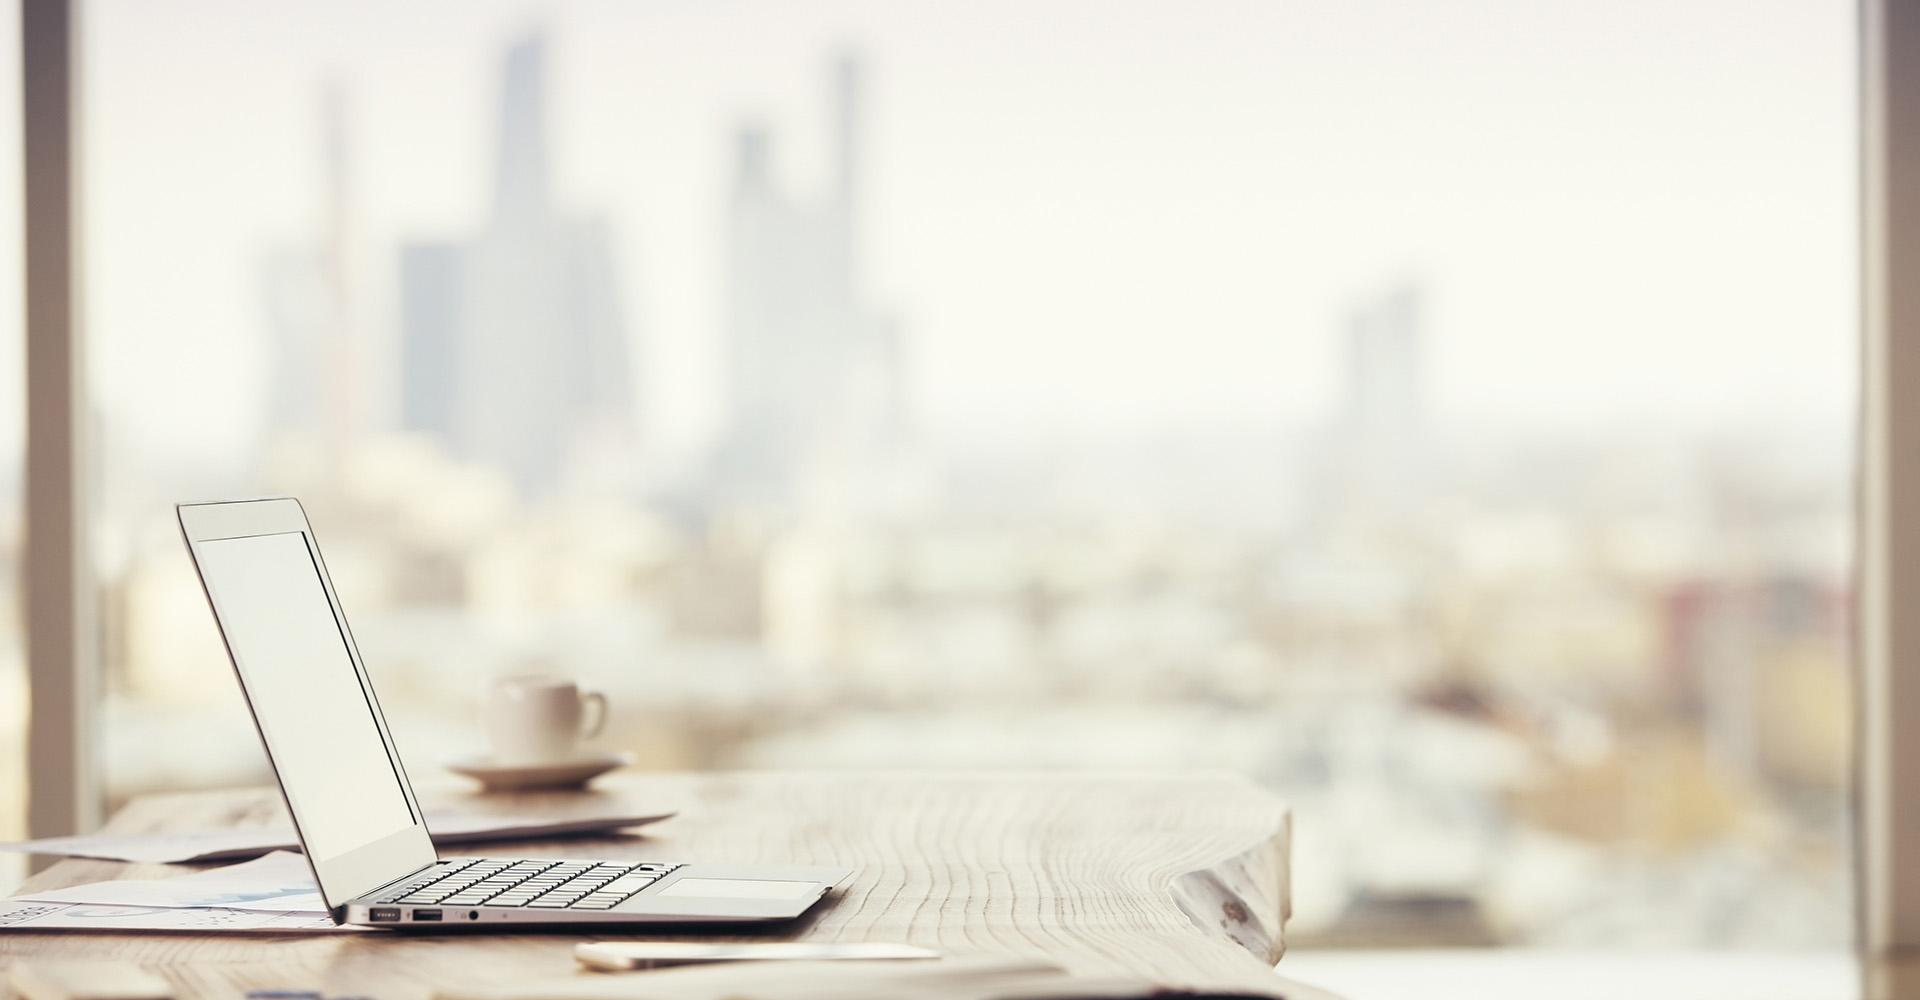
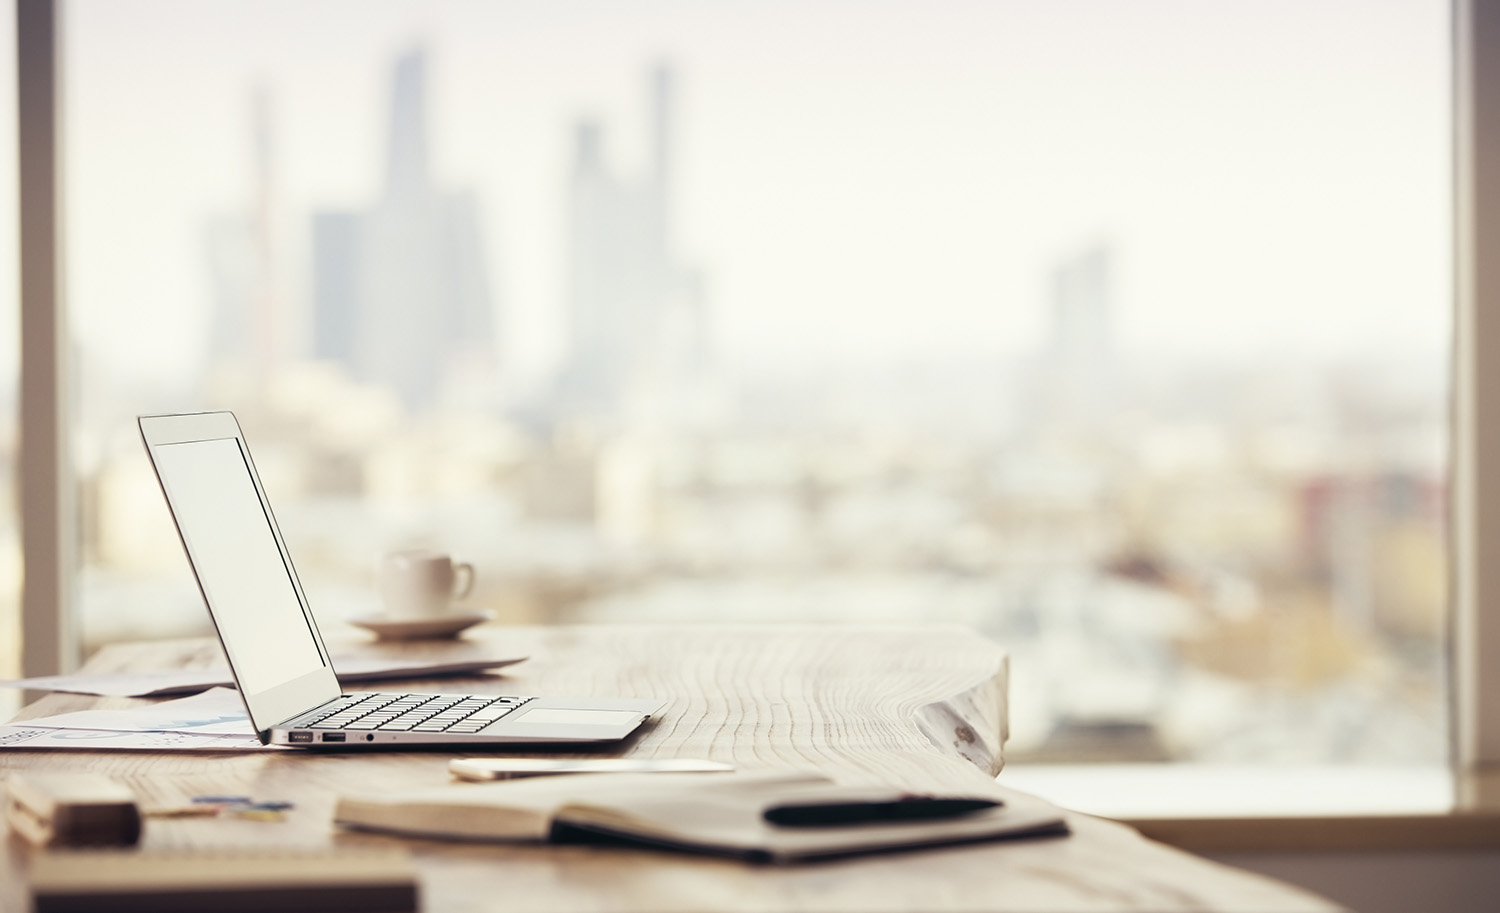
Added Responsive Image

diff --git a/src/app/app.component.scss b/src/app/app.component.scss
@@ -1,139 +1,16 @@
-@media screen and (min-width: 350px) and (max-width: 600px) {
-    
-    #banner-image {
-        width: 100%;
-        height: 300px;
-        background-image: url("/assets/mobile-splash-background.jpg");
-        background-repeat: no-repeat;
-    }
-    h2 {
-        margin: 0 0 0 40px;
-        padding-top: 20px;
-        font-family: roboto;
-        font-size: 18pt;
-        color: #11170E;
-    }
-    h3 {
-        margin: 0 0 0 40px;
-        padding-top: 10px;
-        font-family: Adelle PE;
-        color: #860043;
-        font-stretch: extra-expanded;
-    }
-    h4 {
-        margin: 10px 20px 0 0;
-        padding-top: 10px;
-        font-family: roboto;
-        color: #145814;
-        float:right;
-    }
-    section {
-        position: relative;
-        margin: 20px 0 0 60px;
-    }
-    .mat-nav-list .mat-list-item {
-        height: 70px;
-    }
+// 
+.container {
+    position: relative;
 }
 
-@media screen and (min-width: 601px) and (max-width: 768px) {
-    #banner-image {
-        width: 100%;
-        height: 1024px;
-        background-image: url("/assets/designer-background-768-1024.jpg");
-        background-repeat: no-repeat;
-        padding: 0;
-        margin: 0;
-    }
-    h2 {
-        margin: 0;
-        padding-top: 20px;
-        font-family: roboto;
-        font-size: 18pt;
-        color: #11170E;
-    }
-
+/* Bottom right text */
+.text-block {
+    position: absolute;
+    top: 20px;
+    right: 20px;
+    background-color: black;
+    color: white;
+    padding-left: 20px;
+    padding-right: 20px;
 }
-
-@media screen and (min-width: 769px) and (max-width: 1023px) {
-    #banner-image {
-        width: 100%;
-        height: 768px;
-        background-image: url("/assets/designer-background-1024-768.jpg");
-        background-repeat: no-repeat;
-        padding: 0;
-        margin: 0;
-    }
-    h2 {
-        margin: 0;
-        padding-top: 20px;
-        font-family: roboto;
-        font-size: 18pt;
-        color: #11170E;
-    }
-
-}
-
-@media screen and (min-width: 1024px) and (max-width: 1365px) {
-    #banner-image {
-        width: 100%;
-        height: 1366px;
-        background-image: url("/assets/designer-background-1024-1366.jpg");
-        background-repeat: no-repeat;
-        padding: 0;
-        margin: 0;
-    }
-    h2 {
-        margin: 0;
-        padding-top: 20px;
-        font-family: roboto;
-        font-size: 18pt;
-        color: #11170E;
-    }
-
-}
-/* iPad pro */
-@media screen and (min-width: 1366px) and (max-width: 1366px) {
-    #banner-image {
-        width: 100%;
-        height: 1024px;
-        background-image: url("/assets/designer-background-1366-1024.jpg");
-        background-repeat: no-repeat;
-        padding: 0;
-        margin: 0;
-    }
-    h2 {
-        margin: 0;
-        padding-top: 20px;
-        font-family: roboto;
-        font-size: 18pt;
-        color: #11170E;
-    }
-
-}
-
-@media screen and (min-width: 1200px) and (max-width: 1921px) {
-    #banner-image {
-        width: 100%;
-        height: 1000px;
-        background-image: url("/assets/designer-background-desktop.jpg");
-        
-        padding: 0;
-        margin: 0;
-    }
-    h2 {
-        margin: 0;
-        padding-top: 20px;
-        font-family: roboto;
-        font-size: 18pt;
-        color: #11170E;
-    }
-
-}
-
-
-
-
-
-
 

diff --git a/src/app/app.component.html b/src/app/app.component.html
@@ -1,9 +1,15 @@
 
-<div id="banner-image">
-  <h2>Teri Mathews</h2>
-  <h3>UX-UI Web Developer and Designer</h3>
-  <h4>Denver, CO</h4>
-</div >
+<div class="container">
+    <img src="assets/designer-background-desktop.jpg" alt="background" 
+        style="width:100%;">
+    <div class="text-block"> 
+        <h2>Teri Mathews</h2>
+        <h3>UX-UI Web Developer and Designer</h3>
+        <h4>Denver, CO</h4>
+    </div>
+  </div>
+
+
 
 
 

diff --git a/src/styles.css b/src/styles.css
@@ -1,10 +1,20 @@
 /* You can add global styles to this file, and also import other style files */
 @import '~@angular/material/prebuilt-themes/deeppurple-amber.css';
 
-html, body {
+body, html {
+    height: 100%;
     margin: 0;
-    padding: 0;
-    font-family: -apple-system, BlinkMacSystemFont, 'Segoe UI', Roboto, Oxygen, Ubuntu, Cantarell, 'Open Sans', 'Helvetica Neue', sans-serif;
 }
+
+
+
+
+
+
+
+
+
+
+
 
 

diff --git a/src/index.html b/src/index.html
@@ -7,8 +7,11 @@
 
   <meta name="viewport" content="width=device-width, initial-scale=1">
   <link href="https://fonts.googleapis.com/icon?family=Material+Icons" rel="stylesheet"></head>
-  
-  <body class="background-page">
+  <style>
+      
+      </style>
+  <body>
+      
     
   <app-root></app-root>
 </body>
